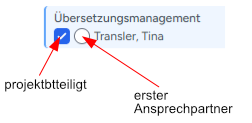
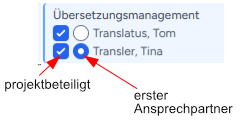
Personen: Eingaben bleiben bei Fehlern erhalten, Prüfung von Kürzel und E-Mail beim Verlassen des Feldes

diff --git a/app/Http/Controllers/Admin/PersonController.php b/app/Http/Controllers/Admin/PersonController.php
@@ -240,6 +240,30 @@ class PersonController extends Controller
         return view('admin.personen.edit', $data);
     }
 
+    /**
+     * Prüft ein einzelnes Feld direkt beim Verlassen (Ralf, 2026-10-06): Kürzel (Länge, noch frei?) und E-Mail (gültig?).
+     * Dieselben Regeln wie beim Speichern; es wird nichts gespeichert.
+     */
+    public function checkField(Request $request, Person $person): JsonResponse
+    {
+        abort_unless($this->personVisibleInCurrentTenant($request, $person), 404);
+        abort_unless($this->personFullyEditableByCurrentUser($request, $person), 403);
+
+        $rules = [
+            'short_name' => [
+                'nullable', 'string', 'min:2', 'max:4',
+                Rule::unique('people', 'short_name')->where('tenant_id', $person->tenant_id)->ignore($person->id),
+            ],
+            'email' => ['nullable', 'email', 'max:255'],
+        ];
+        $field = (string) $request->query('field');
+        abort_unless(isset($rules[$field]), 422);
+
+        $validator = Validator::make([$field => $request->query('value')], [$field => $rules[$field]], $this->fieldMessages(), ['short_name' => __('Kürzel'), 'email' => __('E-Mail')]);
+
+        return response()->json(['message' => $validator->fails() ? $validator->errors()->first($field) : null]);
+    }
+
     public function update(Request $request, Person $person): RedirectResponse|Response
     {
         abort_unless($this->personVisibleInCurrentTenant($request, $person), 404);
@@ -272,16 +296,21 @@ class PersonController extends Controller
             'active' => ['boolean'],
             'resource_planning' => ['boolean'],
             'calendar_enabled' => ['boolean'],
-        ], [], ['short_name' => __('Kürzel')]);
+        ], $this->fieldMessages(), ['short_name' => __('Kürzel')]);
 
         if ($validator->fails()) {
+            // Beim Fehler bleiben die eingetragenen Werte im Formular erhalten (nichts wird gespeichert, nur angezeigt).
+            $data = $this->withSubmittedValues($this->editData($request, $person), $request);
+
             if ($isOverlay) {
                 return response()
-                    ->view('admin.personen.partials.edit-body', [...$this->editData($request, $person), 'overlay' => true, 'errors' => $this->viewErrors($validator->errors())])
+                    ->view('admin.personen.partials.edit-body', [...$data, 'overlay' => true, 'errors' => $this->viewErrors($validator->errors())])
                     ->setStatusCode(422);
             }
 
-            return back()->withErrors($validator)->withInput();
+            return response()
+                ->view('admin.personen.edit', [...$data, 'errors' => $this->viewErrors($validator->errors())])
+                ->setStatusCode(422);
         }
 
         $validated = $validator->validated();
@@ -681,6 +710,65 @@ class PersonController extends Controller
     /**
      * @return array{person: Person, companies: Collection, departments: Collection, businessUnits: Collection, legacyRoles: Collection, permissionTemplates: Collection, functionGroups: Collection, filters: array, previousPerson: ?Person, nextPerson: ?Person}
      */
+    /** @return array<string, string> Meldungen für Kürzel und E-Mail (beim Speichern und bei der Prüfung beim Verlassen des Feldes) */
+    private function fieldMessages(): array
+    {
+        return [
+            'short_name.unique' => __('Kürzel wird bereits verwendet'),
+            'short_name.min' => __('Das Kürzel braucht 2 bis 4 Zeichen'),
+            'short_name.max' => __('Das Kürzel braucht 2 bis 4 Zeichen'),
+            'email.email' => __('Die E-Mail-Adresse ist ungültig'),
+        ];
+    }
+
+    /**
+     * Legt die abgeschickten (noch nicht gespeicherten) Formularwerte über die geladene Person, damit ein Formular nach
+     * einer Fehlermeldung nicht auf den gespeicherten Stand zurückspringt.
+     *
+     * @param  array<string, mixed>  $data
+     * @return array<string, mixed>
+     */
+    private function withSubmittedValues(array $data, Request $request): array
+    {
+        $person = $data['person'];
+        $text = fn (string $key) => $request->has($key) ? (string) $request->input($key) : $person->{$key};
+        $id = fn (string $key) => $request->filled($key) ? (int) $request->input($key) : null;
+
+        $person->forceFill([
+            'first_name' => $text('first_name'),
+            'last_name' => $text('last_name'),
+            'short_name' => $request->filled('short_name') ? (string) $request->input('short_name') : null,
+            'email' => $request->filled('email') ? (string) $request->input('email') : null,
+            'company_id' => $id('company_id'),
+            'department_id' => $id('department_id'),
+            'business_unit_id' => $id('business_unit_id'),
+            'legacy_role_id' => $id('legacy_role_id'),
+            'permission_template_id' => $id('permission_template_id'),
+            'remarks' => $request->filled('remarks') ? (string) $request->input('remarks') : null,
+            'active' => $request->boolean('active'),
+            'resource_planning' => $request->boolean('resource_planning'),
+            'calendar_enabled' => $request->boolean('calendar_enabled'),
+        ]);
+
+        foreach (['start_date', 'end_date'] as $key) {
+            if (! $request->has($key)) {
+                continue;
+            }
+            try {
+                $person->{$key} = $request->filled($key) ? \Carbon\Carbon::parse((string) $request->input($key))->toDateString() : null;
+            } catch (\Throwable) {
+                // unlesbares Datum: den gespeicherten Wert stehen lassen
+            }
+        }
+
+        $person->setRelation('functionGroups', FunctionGroup::query()
+            ->availableForTenant($person->tenant_id)
+            ->whereIn('id', collect($request->array('function_group_ids'))->map(fn ($groupId) => (int) $groupId))
+            ->get());
+
+        return [...$data, 'person' => $person];
+    }
+
     private function editData(Request $request, Person $person): array
     {
         // Für die Liste/das Blättern zählt der AKTIVE Kunde (Kontext, in dem

diff --git a/tests/Feature/PersonFormKeepsInputTest.php b/tests/Feature/PersonFormKeepsInputTest.php
@@ -1,0 +1,62 @@
+<?php
+
+namespace Tests\Feature;
+
+use App\Models\Person;
+use App\Models\Tenant;
+use App\Models\User;
+use Illuminate\Foundation\Testing\RefreshDatabase;
+use Tests\TestCase;
+
+class PersonFormKeepsInputTest extends TestCase
+{
+    use RefreshDatabase;
+
+    public function test_failed_save_keeps_the_entered_values_in_the_form(): void
+    {
+        $tenant = Tenant::query()->firstOrFail();
+        $admin = User::factory()->create(['tenant_id' => $tenant->id, 'role' => 'organization_admin']);
+        Person::query()->withoutGlobalScope('tenant')->create(['tenant_id' => $tenant->id, 'first_name' => 'Erna', 'last_name' => 'Erste', 'short_name' => 'EE', 'active' => true]);
+        $person = Person::query()->withoutGlobalScope('tenant')->create(['tenant_id' => $tenant->id, 'first_name' => '', 'last_name' => 'Neue Person', 'active' => true]);
+
+        $payload = [
+            'first_name' => 'Gustav',
+            'last_name' => 'Gründlich',
+            'short_name' => 'EE', // schon vergeben
+            'email' => 'gustav@example.test',
+            'remarks' => 'Bitte nicht verlieren',
+        ];
+
+        // Overlay (Normalfall) und eigene Seite verhalten sich gleich
+        foreach ([['X-Overlay' => '1'], []] as $headers) {
+            $response = $this->actingAs($admin)->withHeaders($headers)->post(route('admin.personen.update', $person), $payload);
+            $response->assertStatus(422)
+                ->assertSee('value="Gustav"', false)
+                ->assertSee('value="Gründlich"', false)
+                ->assertSee('value="gustav@example.test"', false)
+                ->assertSee('Bitte nicht verlieren');
+        }
+
+        // Es wurde nichts gespeichert
+        $this->assertSame('Neue Person', $person->fresh()->last_name);
+    }
+
+    public function test_fields_are_checked_on_blur_without_saving(): void
+    {
+        $tenant = Tenant::query()->firstOrFail();
+        $admin = User::factory()->create(['tenant_id' => $tenant->id, 'role' => 'organization_admin']);
+        Person::query()->withoutGlobalScope('tenant')->create(['tenant_id' => $tenant->id, 'first_name' => 'Erna', 'last_name' => 'Erste', 'short_name' => 'EE', 'active' => true]);
+        $person = Person::query()->withoutGlobalScope('tenant')->create(['tenant_id' => $tenant->id, 'first_name' => '', 'last_name' => 'Neue Person', 'active' => true]);
+        $this->actingAs($admin);
+        $check = fn (string $field, string $value) => $this->getJson(route('admin.personen.feldpruefung', ['person' => $person, 'field' => $field, 'value' => $value]))->assertOk()->json('message');
+
+        $this->assertNotNull($check('short_name', 'EE'));   // schon vergeben
+        $this->assertNotNull($check('short_name', 'X'));    // zu kurz
+        $this->assertNull($check('short_name', 'NP'));      // frei
+        $this->assertNull($check('short_name', ''));        // leer ist erlaubt
+        $this->assertNotNull($check('email', 'kein-mail')); // ungültig
+        $this->assertNull($check('email', 'a@b.de'));
+        $this->getJson(route('admin.personen.feldpruefung', ['person' => $person, 'field' => 'last_name', 'value' => 'x']))->assertStatus(422);
+        $this->assertNull($person->fresh()->short_name);
+    }
+}

diff --git a/resources/views/layouts/app.blade.php b/resources/views/layouts/app.blade.php
@@ -1859,6 +1859,37 @@
                 // manuelle Eingabe. Global (nicht Overlay-Closure), weil das
                 // Feld auch auf der normalen Vollseite (nicht nur im Overlay)
                 // vorkommt.
+                // Feldprüfung beim Verlassen des Feldes (Kürzel, E-Mail): Hinweis direkt unter dem Feld, gespeichert wird nichts.
+                window.clearPersonFieldHint = function (input) {
+                    const hint = input.parentElement.querySelector('[data-field-hint]');
+                    input.classList.remove('border-red-400');
+                    if (hint) {
+                        hint.textContent = '';
+                        hint.classList.add('hidden');
+                    }
+                };
+                window.checkPersonField = async function (input) {
+                    const hint = input.parentElement.querySelector('[data-field-hint]');
+                    if (!hint || !input.dataset.checkUrl) {
+                        return;
+                    }
+                    const value = input.value.trim();
+                    try {
+                        const url = new URL(input.dataset.checkUrl, window.location.origin);
+                        url.searchParams.set('field', input.name);
+                        url.searchParams.set('value', value);
+                        const response = await fetch(url, { headers: { 'Accept': 'application/json', 'X-Requested-With': 'XMLHttpRequest' } });
+                        if (!response.ok || input.value.trim() !== value) {
+                            return;
+                        }
+                        const data = await response.json();
+                        input.classList.toggle('border-red-400', !!data.message);
+                        hint.textContent = data.message || '';
+                        hint.classList.toggle('hidden', !data.message);
+                    } catch (error) {
+                        // Prüfung nicht möglich: kein Hinweis, das Speichern prüft ohnehin noch einmal
+                    }
+                };
                 window.suggestPersonShortName = function () {
                     const first = document.getElementById('person-first-name');
                     const last = document.getElementById('person-last-name');

diff --git a/resources/views/admin/personen/partials/edit-body.blade.php b/resources/views/admin/personen/partials/edit-body.blade.php
@@ -183,11 +183,13 @@
                     </div>
                     <div>
                         <label class="block text-xs text-gray-500">{{ __('Kürzel') }}</label>
-                        <input type="text" id="person-short-name" name="short_name" value="{{ old('short_name', $person->short_name) }}" minlength="2" maxlength="4" class="mt-0.5 w-full rounded-md border-gray-300 text-sm">
+                        <input type="text" id="person-short-name" name="short_name" value="{{ old('short_name', $person->short_name) }}" minlength="2" maxlength="4" data-check-url="{{ route('admin.personen.feldpruefung', $person) }}" onblur="window.checkPersonField?.(this)" oninput="window.clearPersonFieldHint?.(this)" class="mt-0.5 w-full rounded-md border-gray-300 text-sm">
+                        <p data-field-hint class="mt-0.5 hidden text-xs text-red-600"></p>
                     </div>
                     <div>
                         <label class="block text-xs text-gray-500">{{ __('E-Mail') }}</label>
-                        <input type="email" name="email" value="{{ old('email', $person->email) }}" class="mt-0.5 w-full rounded-md border-gray-300 text-sm">
+                        <input type="email" name="email" value="{{ old('email', $person->email) }}" data-check-url="{{ route('admin.personen.feldpruefung', $person) }}" onblur="window.checkPersonField?.(this)" oninput="window.clearPersonFieldHint?.(this)" class="mt-0.5 w-full rounded-md border-gray-300 text-sm">
+                        <p data-field-hint class="mt-0.5 hidden text-xs text-red-600"></p>
                     </div>
                     @if ($multiTenantEnabled)
                         <div>

diff --git a/routes/web.php b/routes/web.php
@@ -397,6 +397,7 @@ Route::middleware(['auth', 'verified', 'can:access-admin', RememberLastAdminPage
     Route::post('/personen', [AdminPersonController::class, 'store'])->name('personen.store');
     Route::get('/personen/zugriffsmatrix', [AdminPersonController::class, 'accessMatrix'])->name('personen.zugriffsmatrix');
     Route::get('/personen/{person}', [AdminPersonController::class, 'edit'])->name('personen.edit');
+    Route::get('/personen/{person}/feldpruefung', [AdminPersonController::class, 'checkField'])->name('personen.feldpruefung');
     Route::post('/personen/{person}', [AdminPersonController::class, 'update'])->name('personen.update');
     Route::post('/personen/{person}/login', [AdminPersonController::class, 'createLogin'])->name('personen.login.store');
     // Wochenstunden-Historie (Ralf, 2026-09-28) - eigenes kleines Overlay,
